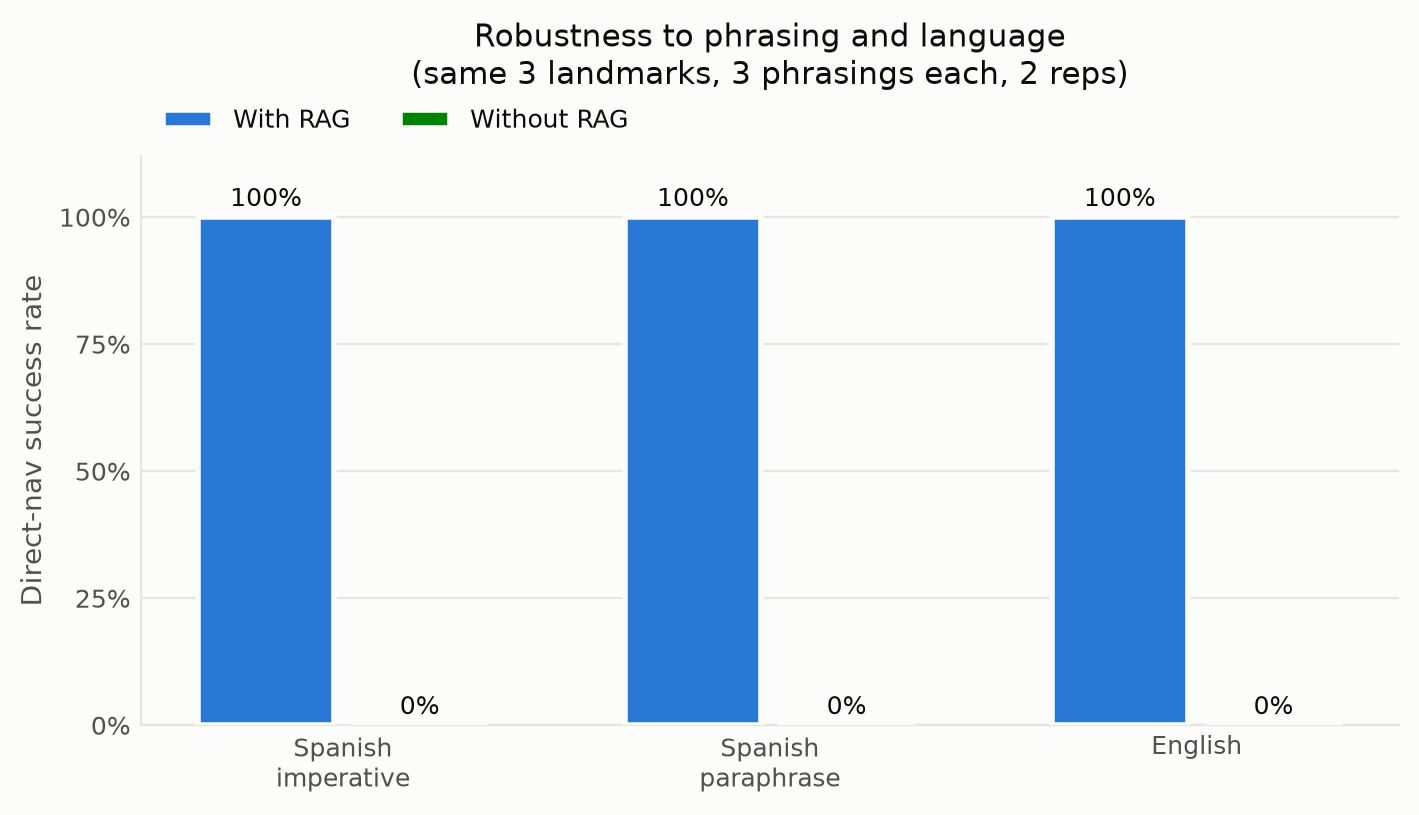
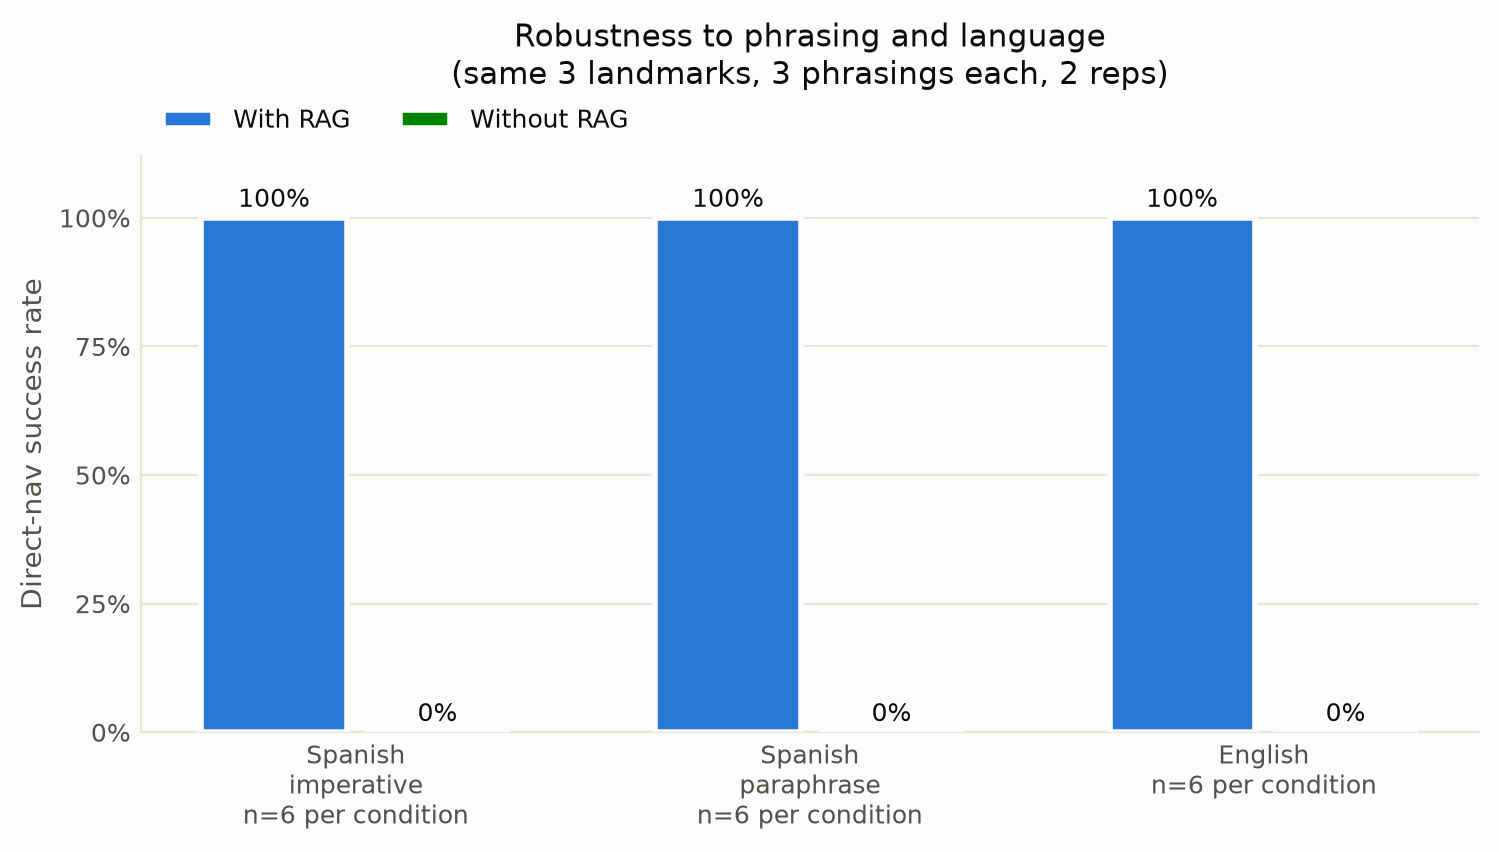
docs(eval): label sample size on every chart
The benchmark charts showed bare 100%/0% bars. A 100% built on n=3 and one
built on n=9 rendered identically, and an empty cell would have rendered as
an indistinguishable 0% — success_rate() returns 0.0 for a missing subset.
For a project whose entire argument rests on measurement, that was the
weakest possible presentation of its strongest asset.

Every bar group now carries "n=" in its tick label, which makes the n=3
control cells visibly weaker than the n=9 headline result and exposes empty
cells as n=0.

Also: the zero line in the embedding margin chart draws above the bars (it
was visible only in the gaps, reading as stray dashes rather than a datum),
and the latency strip dots no longer sit on the axis edge.

Adds fig_hard() and fig_hard_decisions() for the hard suite. Both skip
silently until results/hard/ exists, so no chart is ever produced from
absent data. The decisions chart breaks runs down by decision label —
success rate says the planner failed, the labels say how, which is what
makes the suite useful for guiding the next iteration rather than just
scoring it.

diff --git a/eval/plot_results.py b/eval/plot_results.py
@@ -61,8 +61,15 @@ def style_axes(ax):
     ax.set_axisbelow(True)
 
 
-def grouped_bars(ax, categories, series, ylabel, ymax=1.12, as_pct=True):
-    """series = [(label, color, values)] — thin grouped bars, direct labels."""
+def grouped_bars(ax, categories, series, ylabel, ymax=1.12, as_pct=True, counts=None):
+    """series = [(label, color, values)] — thin grouped bars, direct labels.
+
+    counts: optional per-category sample size, appended to the tick label. A
+    rate of 100% carries very different weight at n=3 than at n=9, so the
+    reader should never have to leave the chart to find out which one it is.
+    It also exposes empty cells (n=0), which would otherwise render as an
+    indistinguishable 0%.
+    """
     width = 0.32
     n = len(categories)
     for i, (label, color, values) in enumerate(series):
@@ -73,8 +80,11 @@ def grouped_bars(ax, categories, series, ylabel, ymax=1.12, as_pct=True):
             text = f'{v * 100:.0f}%' if as_pct else f'{v:.1f}'
             ax.annotate(text, (x, v), textcoords='offset points', xytext=(0, 4),
                         ha='center', fontsize=9, color=INK)
+    labels = list(categories)
+    if counts is not None:
+        labels = [f'{c}\nn={k} per condition' for c, k in zip(labels, counts, strict=True)]
     ax.set_xticks(range(n))
-    ax.set_xticklabels(categories, fontsize=9, color=INK)
+    ax.set_xticklabels(labels, fontsize=9, color=INK)
     ax.set_ylim(0, ymax)
     if as_pct:
         ax.set_yticks([0, 0.25, 0.5, 0.75, 1.0])
@@ -88,6 +98,11 @@ def success_rate(runs, ttype):
     return sum(r['success'] for r in subset) / len(subset) if subset else 0.0
 
 
+def sample_size(runs, ttype):
+    """Number of runs of a given task type — annotated on the chart (see grouped_bars)."""
+    return len([r for r in runs if r.get('type', 'object_nav') == ttype])
+
+
 def fig_benchmark():
     rag, norag = load('full', 'rag'), load('full', 'norag')
     types = ['object_nav', 'attribute_nav', 'zone_nav', 'negative']
@@ -98,6 +113,7 @@ def fig_benchmark():
         [('With RAG', BLUE, [success_rate(rag, t) for t in types]),
          ('Without RAG', GREEN, [success_rate(norag, t) for t in types])],
         ylabel='Success rate',
+        counts=[sample_size(rag, t) for t in types],
     )
     total_runs = len(rag) + len(norag)
     ax1.set_title(f'Planning success by task type ({total_runs} runs, temperature 0)',
@@ -119,12 +135,19 @@ def fig_benchmark():
         mean = sum(lat) / len(lat)
         ax2.bar([i], [mean], width=0.42, color=color, edgecolor=SURFACE,
                 linewidth=2, zorder=3)
-        ax2.plot([i + 0.32] * len(lat), lat, 'o', color=color, markersize=4,
+        # Dots sit just off the bar's right edge (half-width 0.21) so they read
+        # as that bar's runs without the fill swallowing them.
+        ax2.plot([i + 0.28] * len(lat), lat, 'o', color=color, markersize=4,
                  alpha=0.55, zorder=4)
         ax2.annotate(f'{mean:.1f}s', (i, mean), textcoords='offset points',
                      xytext=(0, 4), ha='center', fontsize=9, color=INK)
+    # Explicit limits: with autoscaling the rightmost dot column lands on the
+    # axis edge and reads as clipped.
+    ax2.set_xlim(-0.55, 1.55)
     ax2.set_xticks([0, 1])
-    ax2.set_xticklabels(['With RAG', 'Without RAG'], fontsize=9, color=INK)
+    ax2.set_xticklabels(
+        [f'With RAG\nn={len(rag)}', f'Without RAG\nn={len(norag)}'], fontsize=9, color=INK,
+    )
     ax2.set_ylabel('Planning latency (s)', fontsize=10, color=INK_2)
     ax2.set_title('Goal → plan latency\n(bar = mean, dots = runs)',
                   fontsize=11, color=INK, pad=8)
@@ -147,16 +170,20 @@ def fig_phrasing():
         return
     groups = ['es_imperative', 'es_paraphrase', 'en']
 
+    def subset_of(runs, group):
+        return [r for r in runs if phrasing_group(r['task_id']) == group]
+
     def rate(runs, group):
-        subset = [r for r in runs if phrasing_group(r['task_id']) == group]
+        subset = subset_of(runs, group)
         return sum(r['success'] for r in subset) / len(subset) if subset else 0.0
 
-    fig, ax = plt.subplots(figsize=(7.2, 4.2), facecolor=SURFACE)
+    fig, ax = plt.subplots(figsize=(7.6, 4.4), facecolor=SURFACE)
     grouped_bars(
         ax, [PHRASING_LABELS[g] for g in groups],
         [('With RAG', BLUE, [rate(rag, g) for g in groups]),
          ('Without RAG', GREEN, [rate(norag, g) for g in groups])],
         ylabel='Direct-nav success rate',
+        counts=[len(subset_of(rag, g)) for g in groups],
     )
     ax.set_title('Robustness to phrasing and language\n'
                  '(same 3 landmarks, 3 phrasings each, 2 reps)',
@@ -185,6 +212,7 @@ def fig_embeddings():
         [(m, c, [data['models'][m][lang]['top1_acc'] for lang in langs])
          for m, c in series_defs],
         ylabel='Top-1 retrieval accuracy',
+        counts=[len(data['models'][series_defs[0][0]][lang]['runs']) for lang in langs],
     )
     ax1.set_title('Retrieval accuracy by query language\n(English document corpus)',
                   fontsize=11, color=INK, pad=26)
@@ -205,9 +233,15 @@ def fig_embeddings():
             ax2.annotate(f'{v:+.3f}', (x, v), textcoords='offset points',
                          xytext=(0, 4 if v >= 0 else -14), ha='center',
                          fontsize=9, color=INK)
-    ax2.axhline(0, color=INK_2, linewidth=0.8)
+    # Zero line above the bars (zorder 5): drawn underneath it shows only in the
+    # gaps between bars and reads as a row of stray dashes rather than a datum.
+    ax2.axhline(0, color=INK_2, linewidth=0.8, zorder=5)
     ax2.set_xticks(range(len(langs)))
-    ax2.set_xticklabels(lang_labels, fontsize=9, color=INK)
+    ax2.set_xticklabels(
+        [f'{label}\nn={len(data["models"][series_defs[0][0]][lang]["runs"])}'
+         for label, lang in zip(lang_labels, langs, strict=True)],
+        fontsize=9, color=INK,
+    )
     ax2.set_ylabel('Mean margin (correct − best wrong)', fontsize=10, color=INK_2)
     ax2.set_title('Retrieval margin by query language\n(higher = more separable)',
                   fontsize=11, color=INK, pad=8)
@@ -219,10 +253,95 @@ def fig_embeddings():
     print('Wrote', RESULTS / 'embeddings.png')
 
 
+HARD_LABELS = {
+    'distractor_nav': 'Disambiguation\n(confusable neighbour)',
+    'ordered_multi_step': 'Ordered\nmulti-step plan',
+    'relational_nav': 'Spatial relation\n("nearest to base")',
+    'negative_plausible': 'Plausible\nnonexistent place',
+}
+
+
+def fig_hard():
+    """Renders the hard suite, if it has been run.
+
+    Unlike the main suite this one is expected to show partial scores — that is
+    the whole point of it (see tasks_hard.yaml). Skipped silently until results
+    exist, so no chart is ever produced from absent data.
+    """
+    rag, norag = load('hard', 'rag'), load('hard', 'norag')
+    if not rag:
+        print('No hard-suite results yet, skipping hard.png '
+              '(run: seed_memory.py --hard, then run_benchmark.py tasks_hard.yaml)')
+        return
+    types = [t for t in HARD_LABELS if sample_size(rag, t)]
+
+    fig, ax = plt.subplots(figsize=(8.6, 4.6), facecolor=SURFACE)
+    grouped_bars(
+        ax, [HARD_LABELS[t] for t in types],
+        [('With RAG', BLUE, [success_rate(rag, t) for t in types]),
+         ('Without RAG', GREEN, [success_rate(norag, t) for t in types])],
+        ylabel='Success rate',
+        counts=[sample_size(rag, t) for t in types],
+    )
+    total = len(rag) + len(norag)
+    ax.set_title(f'Hard suite — tasks with headroom ({total} runs, temperature 0)',
+                 fontsize=11, color=INK, pad=26)
+    ax.legend(frameon=False, fontsize=9, ncol=2, loc='lower left',
+              bbox_to_anchor=(0.0, 1.0), labelcolor=INK)
+    fig.tight_layout()
+    fig.savefig(RESULTS / 'hard.png', dpi=200, facecolor=SURFACE, bbox_inches='tight')
+    print('Wrote', RESULTS / 'hard.png')
+
+
+def fig_hard_decisions():
+    """Breaks the hard suite's RAG condition down by decision label.
+
+    Success rate alone says the planner failed; the decision labels say how —
+    hedging across both candidates, right steps in the wrong order, an outright
+    hallucination. That distinction is what makes the suite useful for guiding
+    the next iteration rather than just scoring it.
+    """
+    rag = load('hard', 'rag')
+    if not rag:
+        return
+    counts = defaultdict(int)
+    for run in rag:
+        counts[run['decision']] += 1
+    if not counts:
+        return
+    ordered = sorted(counts.items(), key=lambda kv: -kv[1])
+    labels = [k.replace('_', ' ') for k, _ in ordered]
+    values = [v for _, v in ordered]
+
+    fig, ax = plt.subplots(figsize=(8.0, 0.42 * len(labels) + 1.9), facecolor=SURFACE)
+    positions = range(len(labels))
+    ax.barh(list(positions), values, height=0.55, color=BLUE,
+            edgecolor=SURFACE, linewidth=2, zorder=3)
+    for y, v in zip(positions, values, strict=True):
+        ax.annotate(f'{v}', (v, y), textcoords='offset points', xytext=(5, 0),
+                    va='center', fontsize=9, color=INK)
+    ax.set_yticks(list(positions))
+    ax.set_yticklabels(labels, fontsize=9, color=INK)
+    ax.invert_yaxis()
+    ax.set_xlabel('Runs (with RAG)', fontsize=10, color=INK_2)
+    ax.set_xlim(0, max(values) * 1.15)
+    ax.set_title('How the planner fails on the hard suite',
+                 fontsize=11, color=INK, pad=10)
+    style_axes(ax)
+    ax.xaxis.grid(True, color=GRID, linewidth=0.8)
+    ax.yaxis.grid(False)
+    fig.tight_layout()
+    fig.savefig(RESULTS / 'hard_decisions.png', dpi=200, facecolor=SURFACE,
+                bbox_inches='tight')
+    print('Wrote', RESULTS / 'hard_decisions.png')
+
+
 def main():
     fig_benchmark()
     fig_phrasing()
     fig_embeddings()
+    fig_hard()
+    fig_hard_decisions()
 
 
 if __name__ == '__main__':
